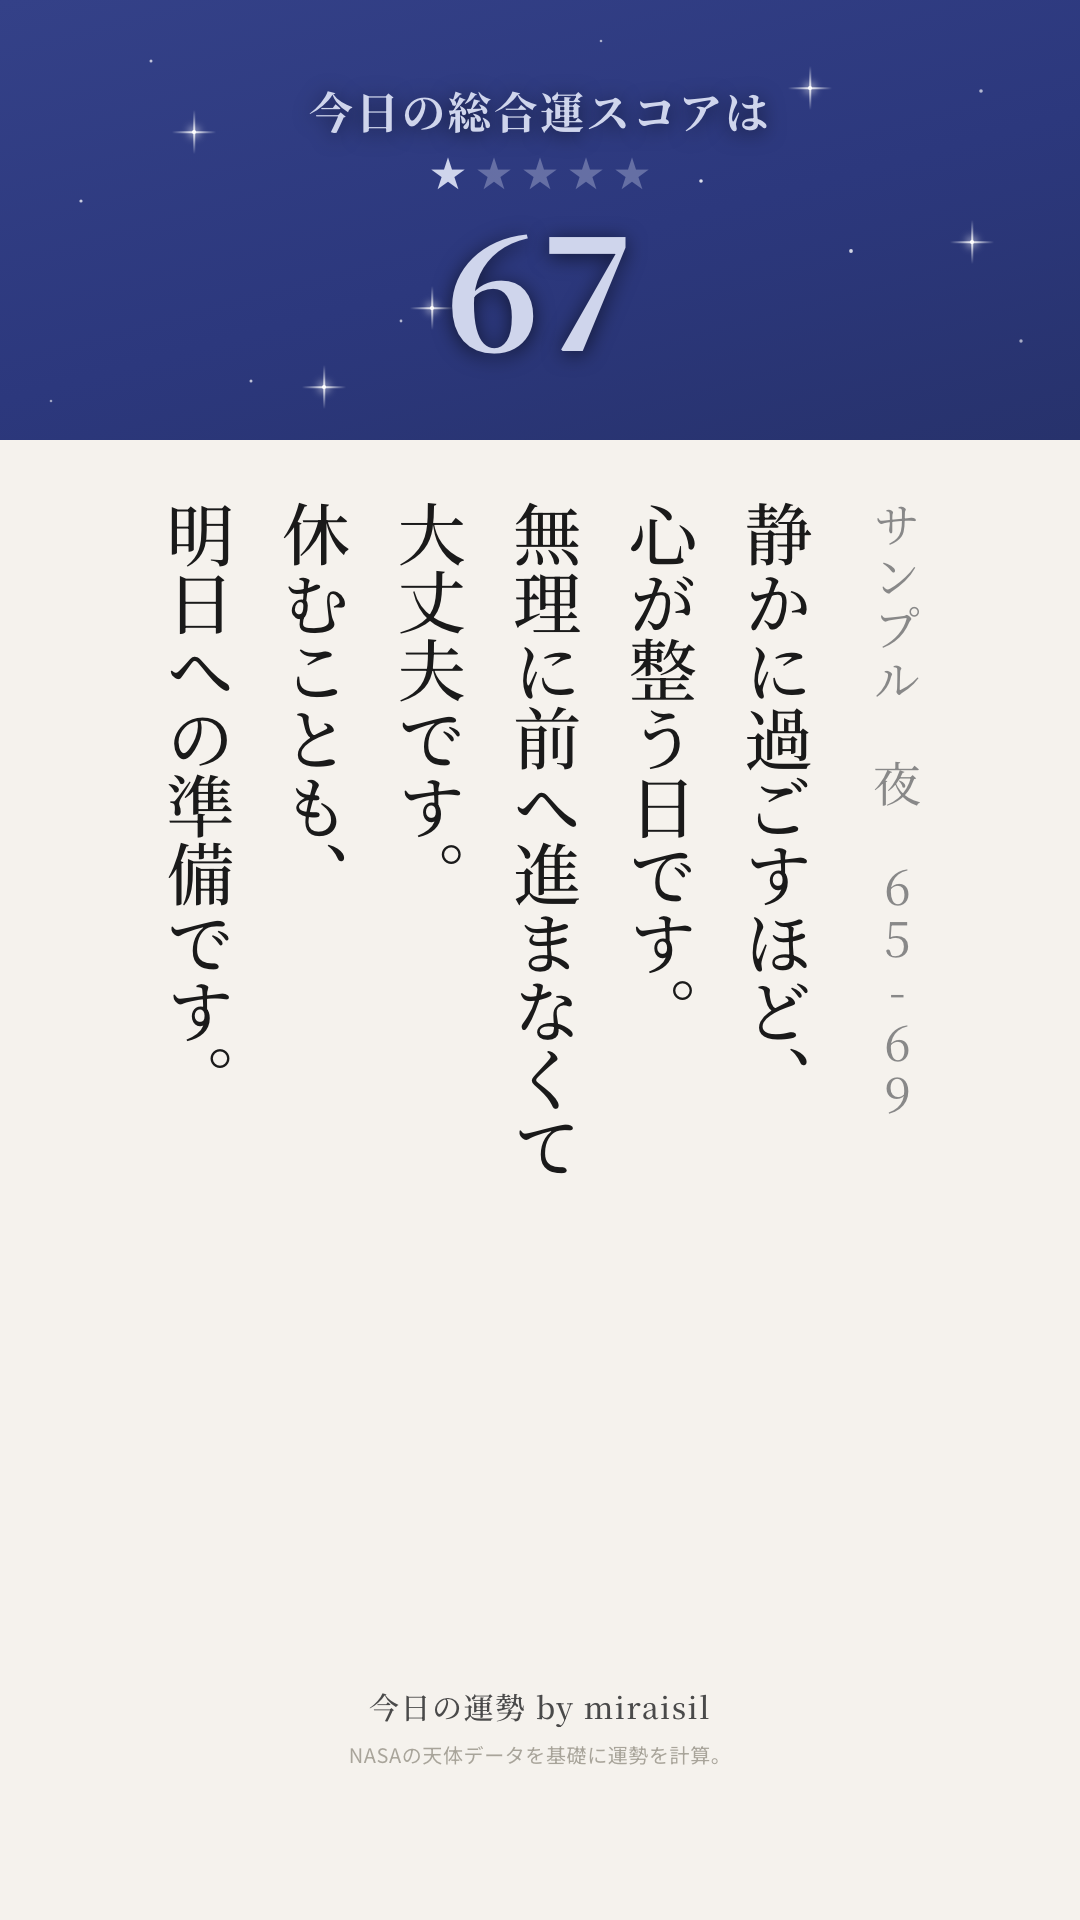
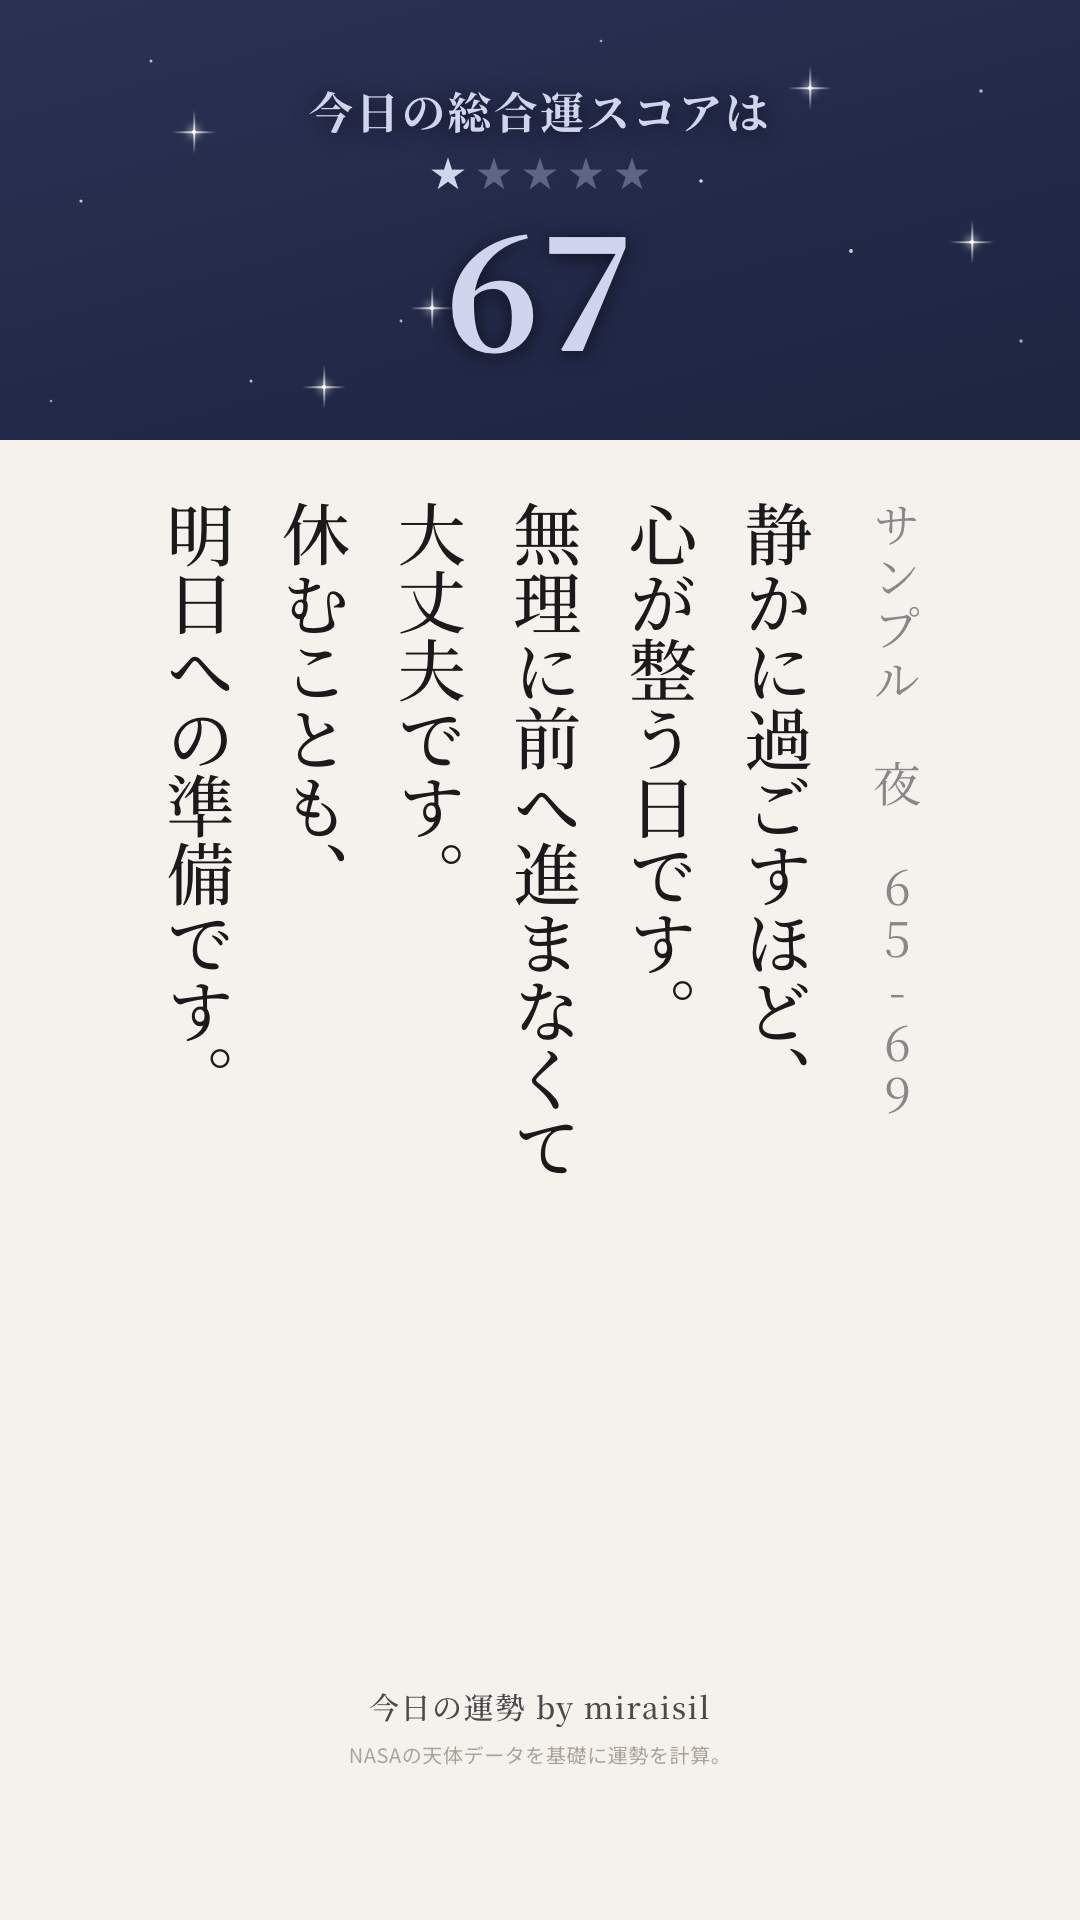
match 65-69 background to candidate C's exact pixel colors
Replaces the estimated navy gradient with values sampled directly
from the candidate C reference image (top/mid/bottom, avoiding stars
and text) for a precise match rather than an eyeballed approximation.

Changed region(s): [[0.0, 0.0, 1.0, 0.25]]

diff --git a/sky-test/index.html b/sky-test/index.html
@@ -113,11 +113,12 @@
 97〜72の他6段はまったく変更していません。
 </div>
 <div class="row">
-  <figure><img src="band_67.png"><figcaption>67点 夜 65-69 ★1<br>候補Cベース・星雲除去・さらに明るく調整</figcaption></figure>
+  <figure><img src="band_67.png"><figcaption>67点 夜 65-69 ★1<br>候補Cの実画像から色をピクセルサンプリングして厳密一致</figcaption></figure>
 </div>
 <div class="note">
-さらに明るくのご指示を受け、背景の藍を一段明るく（輝度を約12ポイント引き上げ）
-調整しました。星雲は引き続き無し、星は15個のまま。<br>
+「候補Cと同じ色に」のご指示を受け、目分量ではなく候補Cの画像そのものから
+背景色をピクセルサンプリング（上部・中央・下部の3点、星や文字を避けて採取）し、
+その実測値をそのままグラデーションに使用しました。星雲は引き続き無し、星は15個のまま。<br>
 このコードはまだ dataunsei-automation にコミットしていません。
 </div>
 </body>
